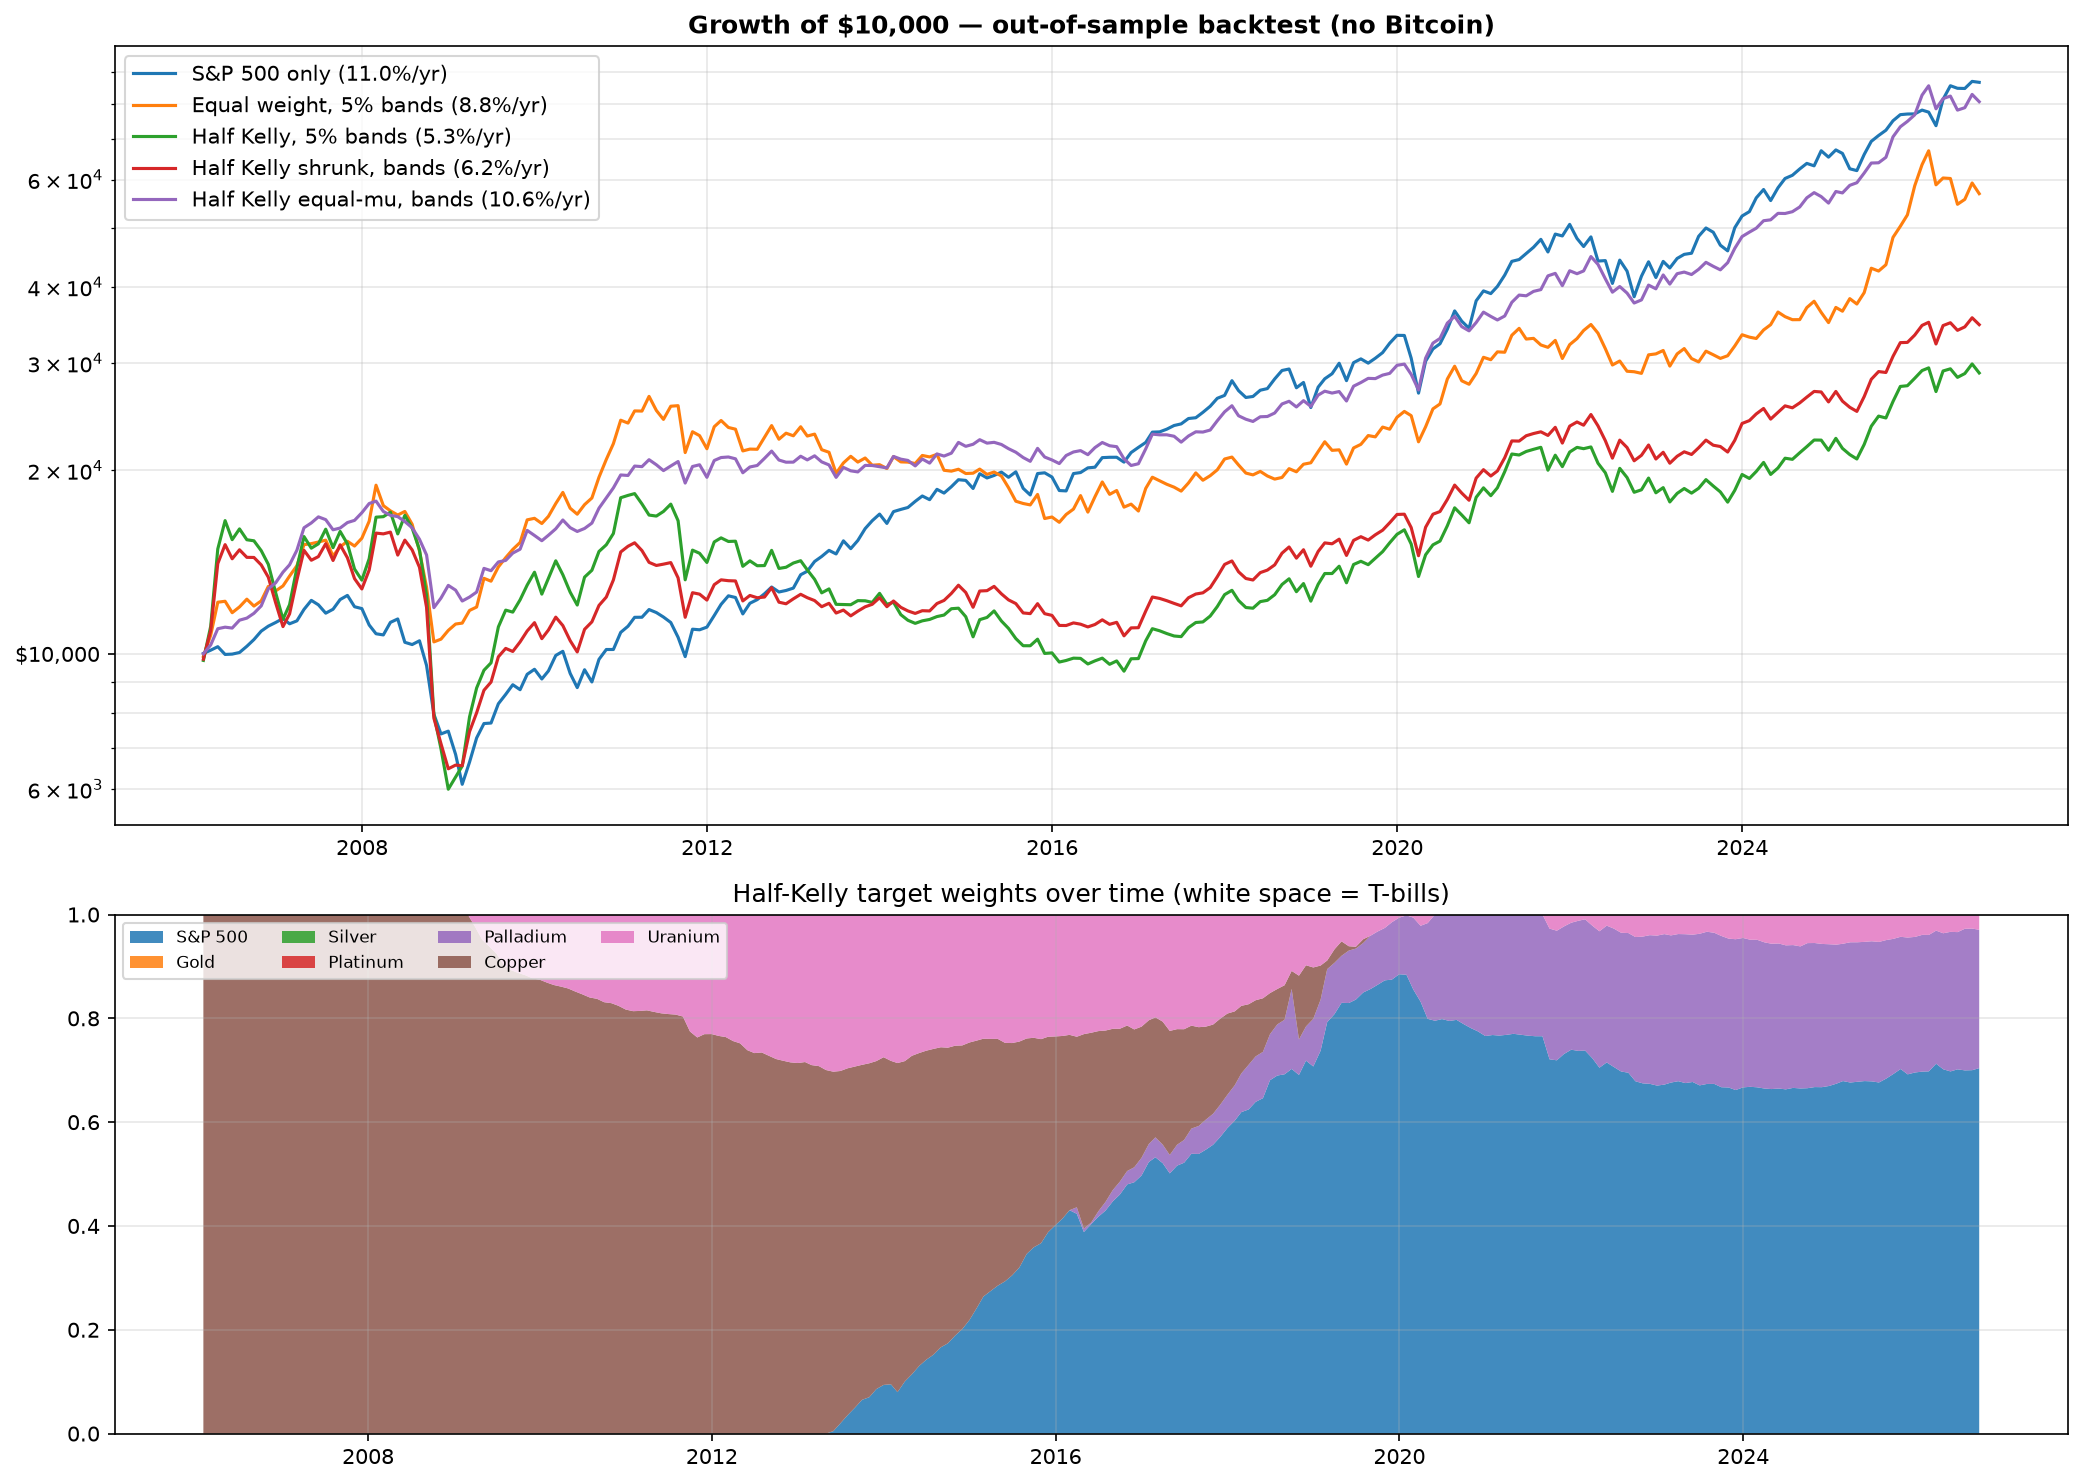
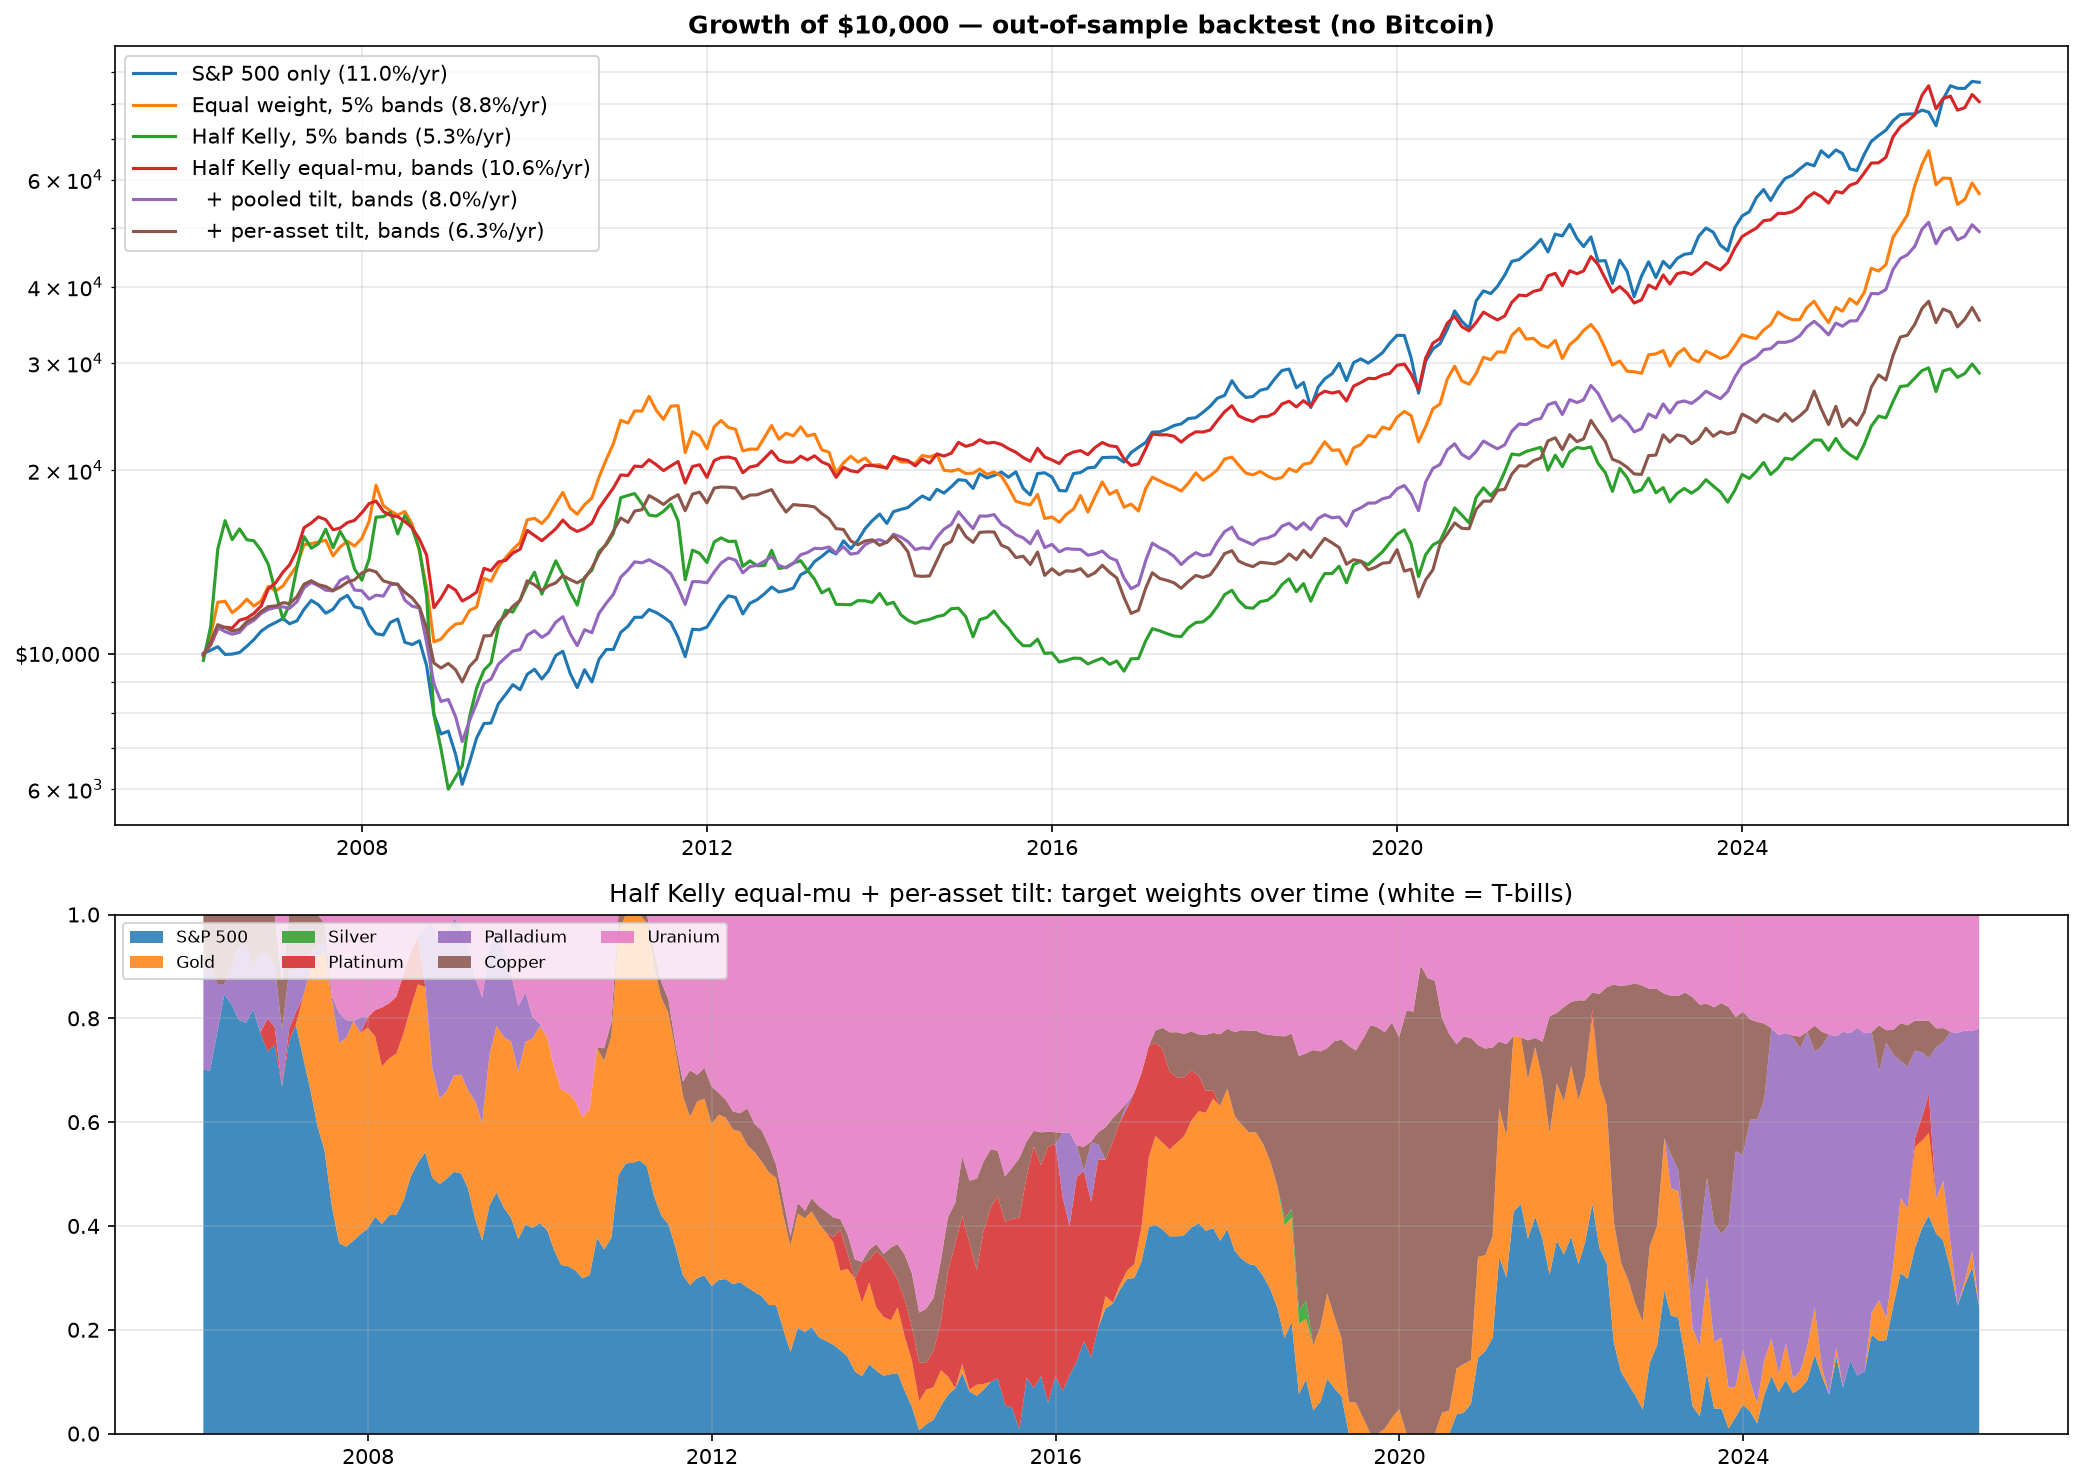
Add data-estimated below-trend tilt to the Kelly backtest
Expected return = equal baseline + beta * (gap below trend), with beta
estimated each month only from gap/outcome pairs already known (3-year
horizon), pooled across assets or per asset shrunk toward the pool.
Out of sample 2006-2026 both tilts underperformed the untilted equal-mu
half Kelly (8.0% and 6.3% vs 10.6%/yr).

diff --git a/Allocation/kelly_backtest.py b/Allocation/kelly_backtest.py
@@ -48,6 +48,11 @@ COV_WINDOW_MONTHS = 120
 TRADE_COST = 0.001
 BAND = 0.05  # drift band for band rebalancing (absolute weight)
 
+# Below-trend tilt: expected return += beta * (how far below trend), beta estimated from history.
+TILT_HORIZON_MONTHS = 36   # how long we let a gap close when measuring beta
+GAP_WARMUP_YEARS = 10      # trend needs this much history before its gap is trusted
+TILT_PRIOR_PERIODS = 5     # per-asset beta is pulled toward the pooled beta with this weight
+
 
 def load_monthly(path):
     d = pd.read_csv(ROOT / path)
@@ -80,6 +85,63 @@ def estimate(full, prices, date):
     hist = prices[prices.index <= date].dropna().pct_change().dropna().iloc[-COV_WINDOW_MONTHS:]
     cov = LedoitWolf().fit(hist.values).covariance_ * 12
     return mu, cov
+
+
+def precompute_gaps(full):
+    """For every asset and month: gap from trend and the excess return over the next
+    TILT_HORIZON_MONTHS vs that trend, using a trend fitted ONLY on data up to that month."""
+    gaps, excess = {}, {}
+    h = TILT_HORIZON_MONTHS
+    for n, s in full.items():
+        t = ((s.index - s.index[0]).days / 365.25).values
+        lp = np.log(s.values)
+        g_vals, e_vals = {}, {}
+        for i in range(len(s)):
+            if t[i] < GAP_WARMUP_YEARS:
+                continue
+            b, a = np.polyfit(t[: i + 1], lp[: i + 1], 1)
+            g_vals[s.index[i]] = lp[i] - (a + b * t[i])
+            if i + h < len(s):
+                # excess return realised by month i+h (only usable once that date has passed)
+                e_vals[s.index[i]] = (lp[i + h] - lp[i] - b * h / 12, s.index[i + h])
+        gaps[n] = pd.Series(g_vals)
+        excess[n] = e_vals
+    return gaps, excess
+
+
+def tilt_betas(gaps, excess, date):
+    """Per-year beta (extra return per unit of log gap below trend), pooled and per asset,
+    from gap/outcome pairs whose outcome was already known at `date`."""
+    years = TILT_HORIZON_MONTHS / 12
+    per_asset, xs, ys = {}, [], []
+    for n in ASSETS:
+        pairs = [(gaps[n][d], e) for d, (e, known) in excess[n].items() if known <= date]
+        if len(pairs) >= 24:
+            x, y = np.array(pairs).T
+            per_asset[n] = (-np.polyfit(x, y, 1)[0] / years, len(pairs) / TILT_HORIZON_MONTHS)
+            xs.append(x)
+            ys.append(y)
+    if not xs:
+        return 0.0, {n: 0.0 for n in ASSETS}
+    pooled = float(np.clip(-np.polyfit(np.concatenate(xs), np.concatenate(ys), 1)[0] / years, 0, 1))
+    shrunk = {}
+    for n in ASSETS:
+        if n in per_asset:
+            b, periods = per_asset[n]
+            b = (periods * b + TILT_PRIOR_PERIODS * pooled) / (periods + TILT_PRIOR_PERIODS)
+            shrunk[n] = float(np.clip(b, 0, 1))
+        else:
+            shrunk[n] = pooled
+    return pooled, shrunk
+
+
+def current_gaps(gaps, date):
+    """Latest known gap per asset at `date` (0 if the asset's trend isn't mature yet)."""
+    out = []
+    for n in ASSETS:
+        g = gaps[n][gaps[n].index <= date]
+        out.append(g.iloc[-1] if len(g) else 0.0)
+    return np.array(out)
 
 
 def kelly(mu, cov, rf, fraction):
@@ -145,7 +207,10 @@ def main():
     #   shrunk - halfway between each asset's trend and the average of all assets
     #   equal  - every asset gets the average: no view on which grows fastest, so Kelly
     #            sizes purely on volatility and correlation (pure volatility harvesting)
-    full_k, half_k, half_shrunk, half_equal = {}, {}, {}, {}
+    print("Precomputing out-of-sample trend gaps for the tilt...")
+    gaps, excess = precompute_gaps(full)
+    full_k, half_k, half_shrunk, half_equal, half_tilt_pool, half_tilt_asset = {}, {}, {}, {}, {}, {}
+    beta_log = {}
     for i in test:
         mu, cov = estimate(full, prices, idx[i])
         rf = rf_annual.iloc[i]
@@ -154,6 +219,13 @@ def main():
         half_k[i] = kelly(mu, cov, rf, 0.5)
         half_shrunk[i] = kelly(0.5 * mu + 0.5 * avg, cov, rf, 0.5)
         half_equal[i] = kelly(avg, cov, rf, 0.5)
+        # Below-trend tilt on top of the equal-mu baseline (gap < 0 means below trend)
+        pooled, per_asset = tilt_betas(gaps, excess, idx[i])
+        gap_now = current_gaps(gaps, idx[i])
+        half_tilt_pool[i] = kelly(avg - pooled * gap_now, cov, rf, 0.5)
+        betas = np.array([per_asset[a] for a in ASSETS])
+        half_tilt_asset[i] = kelly(avg - betas * gap_now, cov, rf, 0.5)
+        beta_log[idx[i]] = (pooled, per_asset, gap_now)
     equal = {i: np.full(n, 1 / n) for i in test}
     sp_only = {i: np.eye(n)[0] for i in test}
 
@@ -167,6 +239,8 @@ def main():
         "Half Kelly, 5% bands": simulate(prices, rf_month, half_k, "band"),
         "Half Kelly shrunk, bands": simulate(prices, rf_month, half_shrunk, "band"),
         "Half Kelly equal-mu, bands": simulate(prices, rf_month, half_equal, "band"),
+        "  + pooled tilt, bands": simulate(prices, rf_month, half_tilt_pool, "band"),
+        "  + per-asset tilt, bands": simulate(prices, rf_month, half_tilt_asset, "band"),
     }
 
     OUT.mkdir(exist_ok=True)
@@ -175,6 +249,8 @@ def main():
     fk = pd.DataFrame([full_k[i] for i in test], index=idx[test], columns=names)
     hs = pd.DataFrame([half_shrunk[i] for i in test], index=idx[test], columns=names)
     he = pd.DataFrame([half_equal[i] for i in test], index=idx[test], columns=names)
+    htp = pd.DataFrame([half_tilt_pool[i] for i in test], index=idx[test], columns=names)
+    hta = pd.DataFrame([half_tilt_asset[i] for i in test], index=idx[test], columns=names)
     lines = [
         "KELLY vs EQUAL-WEIGHT REBALANCING BACKTEST (out of sample, no Bitcoin)",
         "=" * 72,
@@ -188,7 +264,8 @@ def main():
                      f"{r['worst12'] * 100:>10.0f}%{r['turnover'] * 100:>10.0f}%{10000 * r['series'].iloc[-1]:>12,.0f}")
     lines += ["", "AVERAGE KELLY WEIGHTS OVER THE TEST (rest = T-bills)",
               f"{'':12}" + "".join(f"{n[:9]:>10}" for n in names) + f"{'Cash':>10}"]
-    variants = [("Full Kelly", fk), ("Half Kelly", hk), ("Half shrunk", hs), ("Half eq-mu", he)]
+    variants = [("Full Kelly", fk), ("Half Kelly", hk), ("Half shrunk", hs), ("Half eq-mu", he),
+                ("+pool tilt", htp), ("+asset tilt", hta)]
     for label, df in variants:
         lines.append(f"{label:12}" + "".join(f"{v * 100:>9.0f}%" for v in df.mean())
                      + f"{(1 - df.sum(axis=1)).mean() * 100:>9.0f}%")
@@ -203,22 +280,31 @@ def main():
     for j, nme in enumerate(names):
         lines.append(f"{nme:12}{mu[j] * 100:>11.1f}%{sd[j] * 100:>11.1f}%")
     lines.append(f"T-bill rate now: {rf_annual.iloc[test[-1]] * 100:.2f}%")
+    pooled, per_asset, gap_now = beta_log[idx[test[-1]]]
+    lines += ["", f"BELOW-TREND TILT AT THE LATEST MONTH (beta = extra return per year per unit of log gap)",
+              f"Pooled beta: {pooled:.3f}",
+              f"{'':12}{'Gap vs trend':>14}{'Asset beta':>12}{'Tilt to exp. return':>21}"]
+    for j, nme in enumerate(names):
+        lines.append(f"{nme:12}{np.expm1(gap_now[j]) * 100:>+13.0f}%{per_asset[nme]:>12.3f}"
+                     f"{-per_asset[nme] * gap_now[j] * 100:>+20.1f}%")
+    early = beta_log[idx[test[0]]]
+    lines.append(f"(Pooled beta at the start of the test, {idx[test[0]]:%Y-%m}: {early[0]:.3f})")
     text = "\n".join(lines) + "\n"
     (OUT / "kelly_backtest_results.txt").write_text(text, encoding="utf-8")
     print(text)
 
     fig, (ax1, ax2) = plt.subplots(2, 1, figsize=(14, 10), gridspec_kw={"height_ratios": [3, 2]})
     for name in ["S&P 500 only", "Equal weight, 5% bands", "Half Kelly, 5% bands",
-                 "Half Kelly shrunk, bands", "Half Kelly equal-mu, bands"]:
+                 "Half Kelly equal-mu, bands", "  + pooled tilt, bands", "  + per-asset tilt, bands"]:
         ax1.plot(runs[name]["series"] * 10000, label=f"{name} ({runs[name]['cagr'] * 100:.1f}%/yr)")
     ax1.set_yscale("log")
     ax1.yaxis.set_major_formatter(plt.FuncFormatter(lambda v, _: f"${v:,.0f}"))
     ax1.set_title("Growth of $10,000 — out-of-sample backtest (no Bitcoin)", fontweight="bold")
     ax1.grid(True, alpha=0.3, which="both")
     ax1.legend(loc="upper left")
-    ax2.stackplot(hk.index, hk.T.values, labels=names, alpha=0.85)
+    ax2.stackplot(hta.index, hta.T.values, labels=names, alpha=0.85)
     ax2.set_ylim(0, 1)
-    ax2.set_title("Half-Kelly target weights over time (white space = T-bills)")
+    ax2.set_title("Half Kelly equal-mu + per-asset tilt: target weights over time (white = T-bills)")
     ax2.legend(loc="upper left", fontsize=8, ncol=4)
     ax2.grid(True, alpha=0.3)
     plt.tight_layout()
